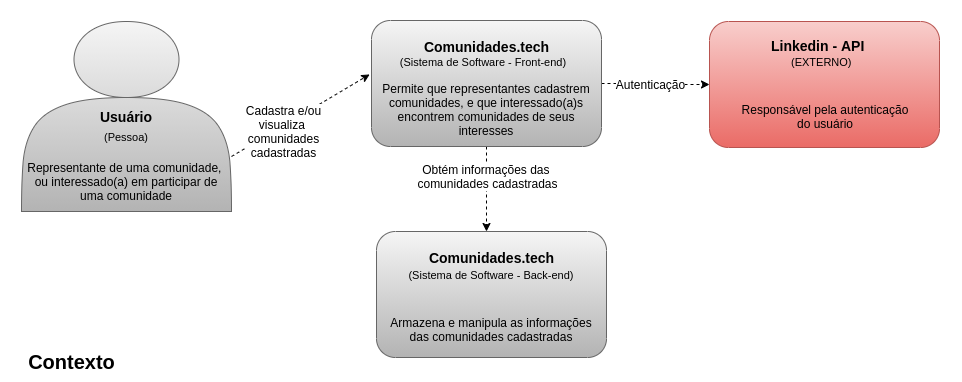
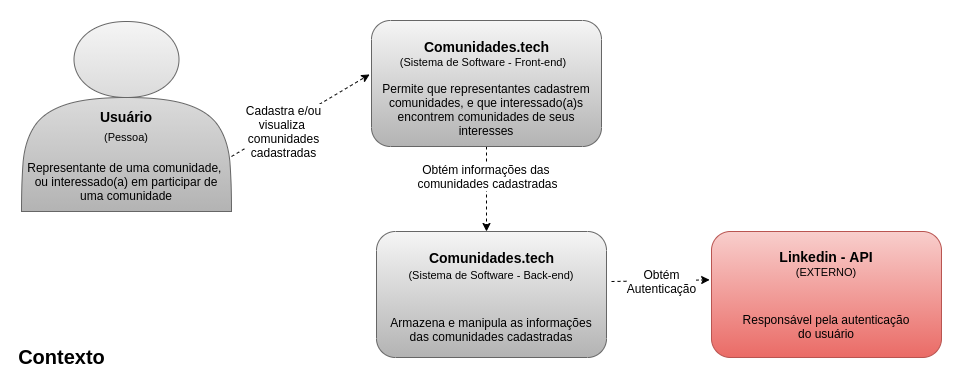
Ajustes na seção contexto

diff --git a/content/posts/comunidadestech.md b/content/posts/comunidadestech.md
@@ -7,7 +7,7 @@ categories = []
 
 ***
 
-Este é um documento descreve a arquitetura geral do Comunidades.tech.
+Este documento descreve parte da arquitetura geral do Comunidades.tech.
 
 ***
 
@@ -17,13 +17,13 @@ Este documento foi produzido por Raquel Ambrozio da Fonseca.
 
 - Matrícula: 116210531
 - Contato: raquel.fonseca@ccc.ufcg.edu.br
-- Projeto: https://github.com/universoimpulso/comunidadestech
+- Projeto documentado: https://github.com/universoimpulso/comunidadestech
 
 # Descrição Arquitetural -- Comunidades.tech
 
-Este documento descreve a arquitetura do projeto [Comunidades.tech](https://github.com/universoimpulso/comunidadestech). Essa descrição foi baseada principalmente no modelo [C4](https://c4model.com/).
+Este documento descreve parte da arquitetura do projeto [Comunidades.tech](https://github.com/universoimpulso/comunidadestech). Essa descrição foi baseada principalmente no modelo [C4](https://c4model.com/).
 
-É importante destacar que será descrita a arquitetura geral do Comunidades.tech. O foco aqui não é detalhar elementos específicos do projeto.
+É importante destacar que será descrita parte da arquitetura geral do Comunidades.tech, considerando suas principais funcionlidades, elementos específicos do projeto e sua implementação não serão detalhados.
 
 
 ## Descrição Geral sobre o Comunidades.tech
@@ -34,20 +34,22 @@ O Comunidades.tech é um projeto open source desenvolvido pela comunidade da [Im
 
 ### Objetivo Geral
 
-O projeto divulga comunidades de tecnologia de todo Brasil, sendo essas vituais ou presenciais. 
+Implementar um sistema para divulgar comunidades nacionais relacionadas a tecnologia, sendo essas vituais ou presenciais. 
 
 ### Objetivos Específicos
 
-Cadastrar comunidades de tecnologia, por tipo (Discord, Meetup, Slack, etc) e categoria (Desenvolvimento de Software, Infraestrutura, Dados, Games, etc ). Além disso, disponibilizar essas comunidades em um catálogo com seus devidos dados (nome, descrição, tecnologias utilizadas, localização, dados para contato, entre outras).
+Queremos cadastrar e publicar comunidades de tecnologia, levando em consideração suas principais caracteríticas, como tipo (Discord, Meetup, Slack, etc) e categoria (Desenvolvimento de Software, Infraestrutura, Dados, Games, etc ). Por fim, disponibilizar essas comunidades em um catálogo com seus devidos dados, para que as pessoas consigam encontrar (utilizando os filtros) comunidades de seu interesse de maneira rápida e prática. 
 
 ### Contexto
 
- O sistema Comunidades.tech utiliza a API do LinkedIn como login para manter o cadastro de um usuário, o mesmo pode ser classificado nas seguintes categorias: 
-* Uma pessoa que representa uma ou mais comunidades e deseja cadastrar (divulgar) sua(s) comunidade(s);
-* uma pessoa que quer participar de comunidade(s) e deseja buscar e visualizar comunidades do seu interesse;
+O sistema Comunidades.tech utiliza a API do LinkedIn como login para manter o cadastro de um usuário e fazer a autenticação.
+O usuário do sistema pode ser classificado nas seguintes categorias: 
+
+* Pessoa que representa uma ou mais comunidades e deseja cadastrar e divulgar sua(s) comunidade(s);
+* Pessoa que quer participar de comunidade(s) e deseja buscar e visualizar comunidades do seu interesse;
 * Ambos.
 
-As informações das comunidades cadastradas são maninpuladas pelo Back-end do sistema Comunidades.tech e armazenadas em um Banco de Dados mantido pelo mesmo.
+As informações das comunidades cadastradas são maninpuladas pelo Back-end do sistema Comunidades.tech, e armazenadas em um Banco de Dados mantido pelo mesmo.
  
  
 Abaixo está o diagrama de contexto.
